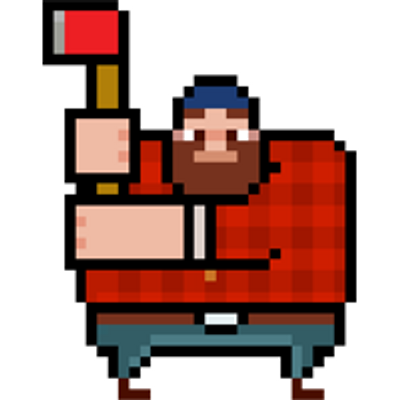
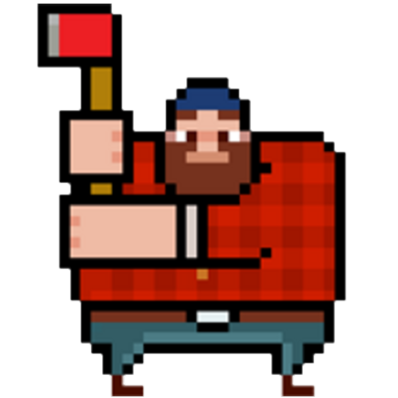
Добавлены ветки, удаление блоков

diff --git a/MainWindow.xaml.cs b/MainWindow.xaml.cs
@@ -32,9 +32,8 @@ namespace WpfApp2
             {
                 ImageSource = new BitmapImage(new Uri("./imgs/background2.png", UriKind.Relative))
             };
-            _timberman = new Timberman(GameField, "./imgs/timberman2.png");
-            _tree = new Tree(GameField, "./imgs/log.png");
-
+            _timberman = new Timberman(GameField, "./imgs/timberman.png");
+            _tree = new Tree(GameField);
         }
 
         public void NextTurn(object sender, KeyEventArgs e)
@@ -82,87 +81,15 @@ namespace WpfApp2
 
         public void MoveLeft()
         {
-            _body.RenderTransform = new ScaleTransform { ScaleX = -1 };
+            _body.RenderTransform = new ScaleTransform { ScaleX = 1 };
             Canvas.SetLeft(_body, _leftPosition);
         }
         public void MoveRight()
         {
-            _body.RenderTransform = new ScaleTransform { ScaleX = 1 };
+            _body.RenderTransform = new ScaleTransform { ScaleX = -1 };
             Canvas.SetLeft(_body, _rightPosition);
         }
 
     }
-
-    public class Tree
-    {
-        private int _height = 10;
-        private int _leftPosition = 210;
-        private int _bottomPosition = 20;
-        private int _itemSize = 50;
-        private List<int> _itemsBottomPositions;
-        private List<TreeItem> _items = new List<TreeItem>();
-        private string _imagePath;
-
-        public Tree(Canvas field, string imagePath)
-        {
-            _imagePath = imagePath;
-            _itemsBottomPositions = new List<int>();
-            for (int i = 0; i < _height; i++)
-            {
-                _items.Add(new TreeItem(field, _itemSize, _leftPosition, _imagePath));
-                _itemsBottomPositions.Add(_bottomPosition + i * _itemSize);
-            }
-            Draw();
-        }
-
-        public void Chop(Canvas field)
-        {
-            _items.RemoveAt(0);
-            _items.Add(new TreeItem(field, _itemSize, _leftPosition, _imagePath));
-            Draw();
-        }
-
-        public void Draw()
-        {
-            for (int i = 0; i < _height; i++)
-            {
-                _items[i].MoveDown(_itemsBottomPositions[i]);
-            }
-        }
-
-    }
-
-    public class TreeItem 
-    {
-        private int _size;
-        private TextBlock _body;
-        static int count = 0;
-
-        public TreeItem(Canvas field, int size, int left_position, string imagePath) 
-        {
-            _size = size;
-            _body = new TextBlock {Width = _size, Height = _size};
-            _body.Text = count.ToString();
-            _body.Background = new ImageBrush
-            {
-                ImageSource = new BitmapImage(new Uri(imagePath, UriKind.Relative))
-            };
-            field.Children.Add(_body);
-            Canvas.SetLeft(_body, left_position);
-            count++;
-        }
-
-        public void MoveDown(int bottom_position)
-        {
-            Canvas.SetBottom(_body, bottom_position);
-        }
-
-        public void Delete(Canvas field) 
-        {
-            field.Children.Remove(_body);
-        }
-
-    }
-    
 
 }
